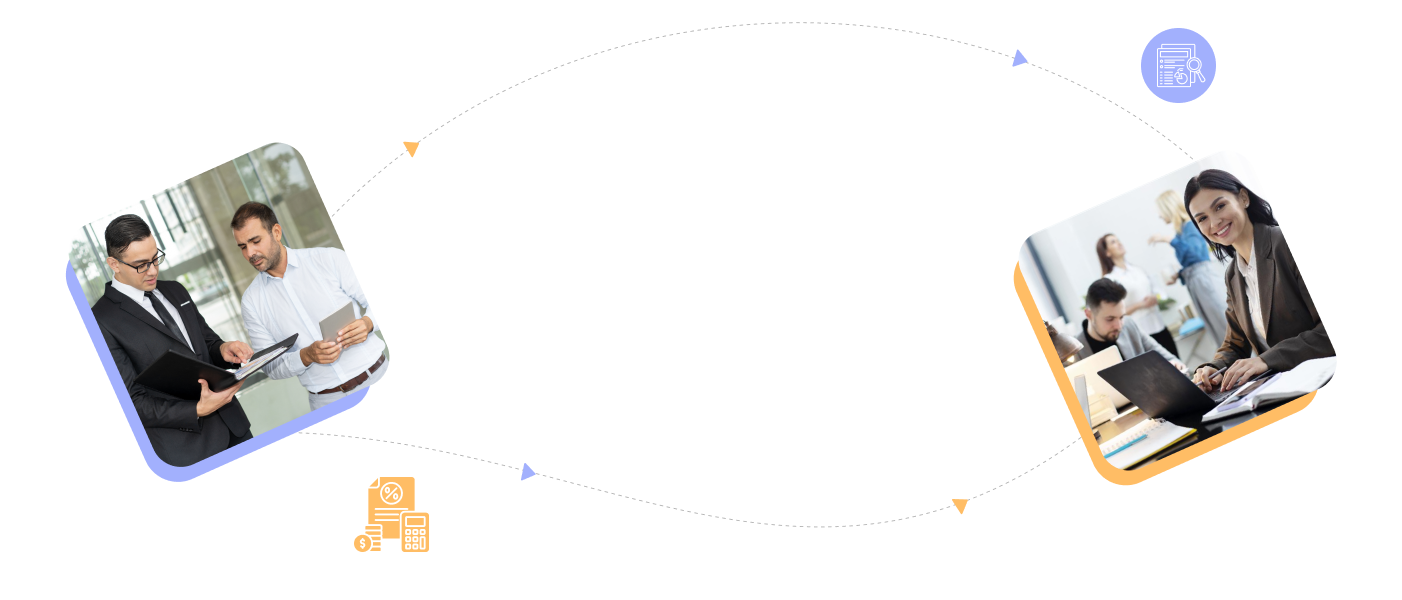
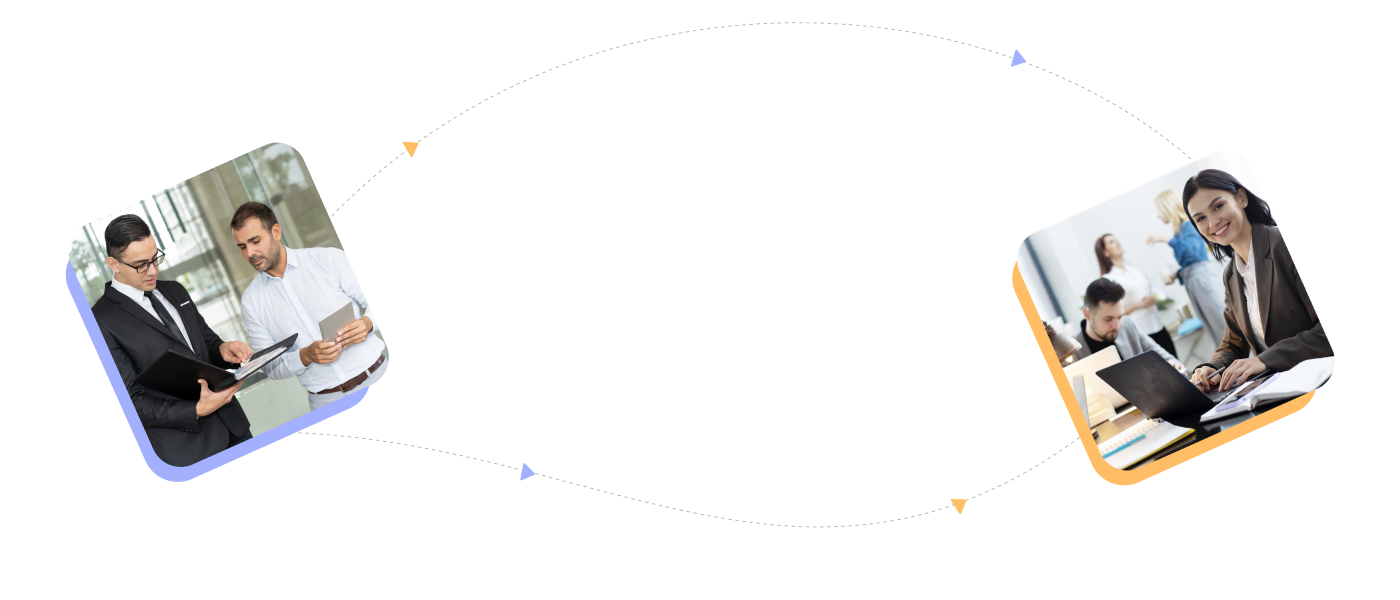
Image change for service section are update

Changed region(s): [[0.7986, 0.03, 0.8907, 0.18], [0.2457, 0.78, 0.3071, 0.93]]

diff --git a/src/pages/Calculators/TDSCalculator.jsx b/src/pages/Calculators/TDSCalculator.jsx
@@ -227,101 +227,107 @@ export default function TDSCalculator() {
   };
 
   return (
-    <div className='container px-4 mb-5' >
-      <div className='row border mt-5 table_background py-4' >
-        <div className='calculator-heading' >
-          TDS Calculator
-        </div>
-        <div className='row mt-3'>
-          <div className='col-md-9 '>
-            <div className='d-flex align-items-center'>
-              <label>Section</label>
-              <select className='form-select mx-4 form-control' style={{ width: "60%" }} onChange={(e) => setSection(e.target.value)}>
-                <option>Select</option>
-                <option value="192A">Section 192A - Payment of accumulated PF balance to an employee</option>
-                <option value="193">Section 193 - Interest on Securities</option>
-                <option value="194">Section 194 - Dividend other than the Dividend as referred to in Section 115-O</option>
-                <option value="194A(other bank)">Section 194A - Interest other than Banks</option>
-                <option value="194A">Section 194A - Interest from Banks</option>
-                <option value="194B">Section 194B - Winnings from Lotteries, crossword Puzzles etc.</option>
-                <option value="194BB">Section 194BB - Income by way of Winnings from Horse Races</option>
-                <option value="194C(single payment)">Section 194C - Payment to Contractor/Sub-Contractor (In case of single payment)</option>
-                <option value="194C">Section 194C - Payment to Contractor/Sub-Contractor (In case of during F.Y)</option>
-                <option value="194D">Section 194D - TDS on insurance commission</option>
-                <option value="194DA">Section 194DA - TDS on Payment in Respect of Life Insurance Policy</option>
-                <option value="194H">Section 194H - Commission or Brokerage</option>
-                <option value="194I(a)">Section 194I(a) - Rent on Plant & Machinery</option>
-                <option value="194I(b)">Section 194I(b) - Rent on Land & building or Furniture & Fitting</option>
-                <option value="194IA">Section 194IA - Payment on transfer of certain Immovable Property other than agricultural Land</option>
-                <option value="194IB">Section 194IB - Rent Payment to Landlord by Individuals</option>
-                <option value="194J(all cases)">Section 194J - Fees for Professional Services/Royalty etc. (Normally in all cases)</option>
-                <option value="194J">Section 194J - Fees for technical services, Fees to Call centre operator</option>
-                <option value="194K">Section 194K - TDS on income from mutual fund units (Dividend income)</option>
-                <option value="194O">Section 194O - TDS on Payment by E-commerce Operator to E-commerce participant.</option>
-              </select>
+    <div className='container  mb-5' >
+      <div style={{ display: 'flex', flexDirection: 'column', alignItems: 'center' }}>
+        <div className='row border mt-5 table_background py-4 col-md-8' >
+          <div className='calculator-heading' >
+            TDS Calculator
+          </div>
+          <div className='row mt-3'>
+            <div className='col-md-6 col-sm-12 mb-3'>
+              <div className='d-flex flex-column align-items-left'>
+                <label>Section</label>
+                <select className='form-select  form-control' onChange={(e) => setSection(e.target.value)}>
+                  <option>Select</option>
+                  <option value="192A">Section 192A - Payment of accumulated PF balance to an employee</option>
+                  <option value="193">Section 193 - Interest on Securities</option>
+                  <option value="194">Section 194 - Dividend other than the Dividend as referred to in Section 115-O</option>
+                  <option value="194A(other bank)">Section 194A - Interest other than Banks</option>
+                  <option value="194A">Section 194A - Interest from Banks</option>
+                  <option value="194B">Section 194B - Winnings from Lotteries, crossword Puzzles etc.</option>
+                  <option value="194BB">Section 194BB - Income by way of Winnings from Horse Races</option>
+                  <option value="194C(single payment)">Section 194C - Payment to Contractor/Sub-Contractor (In case of single payment)</option>
+                  <option value="194C">Section 194C - Payment to Contractor/Sub-Contractor (In case of during F.Y)</option>
+                  <option value="194D">Section 194D - TDS on insurance commission</option>
+                  <option value="194DA">Section 194DA - TDS on Payment in Respect of Life Insurance Policy</option>
+                  <option value="194H">Section 194H - Commission or Brokerage</option>
+                  <option value="194I(a)">Section 194I(a) - Rent on Plant & Machinery</option>
+                  <option value="194I(b)">Section 194I(b) - Rent on Land & building or Furniture & Fitting</option>
+                  <option value="194IA">Section 194IA - Payment on transfer of certain Immovable Property other than agricultural Land</option>
+                  <option value="194IB">Section 194IB - Rent Payment to Landlord by Individuals</option>
+                  <option value="194J(all cases)">Section 194J - Fees for Professional Services/Royalty etc. (Normally in all cases)</option>
+                  <option value="194J">Section 194J - Fees for technical services, Fees to Call centre operator</option>
+                  <option value="194K">Section 194K - TDS on income from mutual fund units (Dividend income)</option>
+                  <option value="194O">Section 194O - TDS on Payment by E-commerce Operator to E-commerce participant.</option>
+                </select>
+              </div>
+            </div>
+
+            <div className='col-md-6 col-sm-12 mb-3'>
+              <div className='d-flex flex-column align-items-left'>
+                <label >PAN quoted by deductee</label>
+                <select className='form-select' style={{ display: 'inline-block', width: 'auto' }} onChange={(e) => setPanQuote(e.target.value === "true")}>
+                  <option value="true" >Yes</option>
+                  <option value="false" >No</option>
+                </select>
+              </div>
+            </div>
+            <div className='col-md-6 col-sm-12 mb-3'>
+              <div className='d-flex flex-column align-items-left gap-2 '>
+                <label>Recipient Type:</label>
+                <div className='gap-2 d-flex flex-nowrap'>
+                  <input
+                    type="radio"
+                    id="individualHUFSOLEPROP"
+                    name="recipientType"
+                    value="individualHUFSOLEPROP"
+                    className="form-check-input"
+                    checked={recipientType === "individualHUFSOLEPROP"}
+                    onChange={(e) => setRecipientType(e.target.value)}
+                  />
+                  <label htmlFor="individualHUFSOLEPROP"> Individual/HUF/Sole Proprietor</label>
+                </div>
+                <div className='gap-2 d-flex flex-nowrap'>
+                  <input
+                    type="radio"
+                    id="other"
+                    name="recipientType"
+                    value="other"
+                    className="form-check-input"
+                    checked={recipientType === "other"}
+                    onChange={(e) => setRecipientType(e.target.value)}
+                  />
+                  <label htmlFor="other"> Other</label>
+                </div>
+              </div>
+            </div>
+
+            <div className='col-md-6 col-sm-12 mb-3'>
+              <div className='d-flex flex-column align-items-left'>
+                <label className='me-2'>Rate: {`${rate}%`} </label>
+                <input type='range' min='0' max='100' value={rate} onChange={(e) => setRate(parseInt(e.target.value, 10))} className='form-range ' />
+
+              </div>
+            </div>
+
+
+            <div className='col-md-6 col-sm-12 mb-3'>
+              <div className='d-flex flex-column align-items-left'>
+                <label className='me-2'>Amount: {`${amount}`}</label>
+                <input type='range' min='0' max='100000' value={amount} onChange={(e) => setAmount(parseInt(e.target.value, 10))} className='form-range ' />
+              </div>
+            </div>
+
+            <div className='col-md-6 col-sm-12 mb-3' >
+              <div className=' d-flex flex-column align-items-left'>
+                <label className='me-2'>Tax:  {`${TDS}`}</label>
+              </div>
+              {!pan ? <span>In case Pan is not available TDS will be applicable at higher rates</span> : ""}
             </div>
           </div>
+
+
         </div>
-        <div className='row my-3'>
-          <div className='col-md-9'>
-            <label className='me-2' style={{ display: 'inline-block' }}>PAN quoted by deductee</label>
-            <select className='form-select' style={{ display: 'inline-block', width: 'auto' }} onChange={(e) => setPanQuote(e.target.value === "true")}>
-              <option value="true" >Yes</option>
-              <option value="false" >No</option>
-            </select>
-          </div>
-        </div>
-        <div className='d-flex align-items-center gap-2 flex-wrap'>
-          <label>Recipient Type:</label>
-          <div className='gap-2 d-flex flex-nowrap'>
-            <input
-              type="radio"
-              id="individualHUFSOLEPROP"
-              name="recipientType"
-              value="individualHUFSOLEPROP"
-              className="form-check-input"
-              checked={recipientType === "individualHUFSOLEPROP"}
-              onChange={(e) => setRecipientType(e.target.value)}
-            />
-            <label htmlFor="individualHUFSOLEPROP"> Individual/HUF/Sole Proprietor</label>
-          </div>
-          <div className='gap-2 d-flex flex-nowrap'>
-            <input
-              type="radio"
-              id="other"
-              name="recipientType"
-              value="other"
-              className="form-check-input"
-              checked={recipientType === "other"}
-              onChange={(e) => setRecipientType(e.target.value)}
-            />
-            <label htmlFor="other"> Other</label>
-          </div>
-        </div>
-        <div className='row mt-3'>
-          <div className='col-md-9 d-flex align-items-center'>
-            <label className='me-2'>Rate</label>
-            <input type='text' value={`${rate}%`} readOnly className='form-control mx-2' />
-            <input type='range' min='0' max='100' value={rate} onChange={(e) => setRate(parseInt(e.target.value, 10))} className='form-range mx-2' style={{ color: "black" }} />
-          </div>
-        </div>
-        <div className='row mt-3'>
-          <div className='col-md-9 d-flex align-items-center'>
-            <label className='me-2'>Amount</label>
-            <input type='text' value={amount} onChange={(e) => setAmount(parseInt(e.target.value, 10))} className='form-control mx-2' />
-            <input type='range' min='0' max='100000' value={amount} onChange={(e) => setAmount(parseInt(e.target.value, 10))} className='form-range mx-2' />
-          </div>
-        </div>
-       
-        {/* Display TDS */}
-        <div className='row mt-3' style={{ padding: '10px' }}>
-          <div className='col-md-9 d-flex align-items-center'>
-            <label className='me-2'>Tax</label>
-            <input type='text' value={`${TDS}`} className='form-control mx-2' readOnly  />
-          </div>
-          {!pan ? <span>In case Pan is not available TDS will be applicable at higher rates</span> : ""}
-        </div>
-        
       </div>
     </div>
   );

diff --git a/src/pages/Home.jsx b/src/pages/Home.jsx
@@ -3,12 +3,12 @@ import Content from "./Content";
 import { Employee } from "./AboutUs/AboutUs_OurTeam";
 import { FaArrowRight } from "react-icons/fa6";
 import { Link } from "react-router-dom";
-import audit from "../images/Audit&Assurance.svg";
-import bookkeeper from "../images/Bookkeeping.png";
-import Advisory from "../images/Advisory.png";
-import indirect from "../images/IndirectTax.png";
+import audit from "../images/Audit&Assurance1.png";
+import bookkeeper from "../images/Bookkeeping1.jpg";
+import Advisory from "../images/Advisory1.png";
+import indirect from "../images/IndirectTax1.png";
 import Secretarial from "../images/Secretarial1.png";
-import DirectTax from "../images/DirectTax2.png";
+import DirectTax from "../images/DirectTax1.png";
 import { CiCircleCheck } from "react-icons/ci";
 // import { PiCloudSlash } from "react-icons/pi";
 import Herosection from "../images/Home-heroSection.png"
@@ -302,12 +302,12 @@ const Home = () => {
           </div>
           <div >
             <p style={{ textAlign: "justify" }}>
-              At CHITHIRAIPANDIAN AND CO, We believe in building long-term relationships based on Trust, Integrity, and Professionalism. Our mission is to deliver Proactive, Practical, and Results-driven Financial Solutions that help our clients thrive in a Dynamic marketplace.</p>
+              At <b>Chithiraipandian and Co</b>, we believe in building long-term relationships based on trust, integrity, and professionalism. Our mission is to deliver proactive, practical, and results-driven financial solutions that help our clients thrive in a dynamic marketplace.</p>
             <p style={{ textAlign: "justify" }}>
-              At CHITHIRAIPANDIAN AND CO, We are dedicated to empowering businesses and individuals with expert financial and advisory services. With a legacy of more than two decades of experience, we specialize in providing Direct and Indirect Taxation, Business Taxation, International Taxation, Auditing and Assurance service, Company Formation, Corporate Compliances, Due diligence, Transfer Pricing, Virtual CFO Solutions,  and Financial Consulting Solutions that are tailored to meet the specific needs of our clients.
+              At <b>Chithiraipandian and Co</b>, we are dedicated to empowering businesses and individuals with expert financial and advisory services. With a legacy of more than two decades of experience, we specialize in providing direct and indirect taxation, business taxation, international taxation, auditing and assurance services, company formation, corporate compliances, due diligence, transfer pricing, virtual CFO solutions, and financial consulting solutions that are tailored to meet the specific needs of our clients.
             </p>
             <div style={{ textAlign: "justify" }}>
-              Our team of experienced Chartered Accountants and Financial Advisors is committed to delivering quality service and valuable insights. We work closely with businesses of all sizes, from startups and SMEs to large corporations. Under the leadership of our founder, We’ve transitioned to a technology-driven firm, Consistently expanding our service offerings and fostering long-term client relationships
+              Our team of experienced Chartered Accountants and financial advisors is committed to delivering quality service and valuable insights. We work closely with businesses of all sizes, from startups and SMEs to large corporations. Under the leadership of our founder, we’ve transitioned to a technology-driven firm, consistently expanding our service offerings and fostering long-term client relationships.
             </div>
           </div>
         </div>

diff --git a/src/pages/Services/ServiceData.js b/src/pages/Services/ServiceData.js
@@ -1,8 +1,8 @@
 
-import Service from "../../images/service.jpg";
+// import Service from "../../images/service.jpg";
 import Audit_And_Assurenece from "../../images/Audit_And_Assurenece.jpg";
-import Direct_Tax from "../../images/Direct_Tax.jpg";
-import Indirect_Tax from "../../images/Indirect_Tax.jpg";
+// import Direct_Tax from "../../images/Direct_Tax.jpg";
+// import Indirect_Tax from "../../images/Indirect_Tax.jpg";
 import Advisory from "../../images/Advisory.jpg";
 // import Secretarial from "../../images/Secretarial.jpg";
 import Bookkeeping from "../../images/Bookkeeping.jpg";
@@ -12,7 +12,7 @@ import Bookkeeping from "../../images/Bookkeeping.jpg";
 const servicesData = [
   {
     title: "Audit & Assurance Services",
-    imageSrc: Service,
+    // imageSrc: Service,
     servicesKey: "auditAndAssuranceServices",
     subImage:Audit_And_Assurenece,
     services: [
@@ -28,9 +28,9 @@ const servicesData = [
   },
   {
     title: "Direct Tax Services",
-    imageSrc: Service,
+    // imageSrc: Service,
     servicesKey: "directTaxServices",
-    subImage:Direct_Tax,
+    // subImage:Direct_Tax,
     subServices: {
       Domestic: [
         "Filling of Income Tax Returns of Corporate and Non-Corporate Clients",
@@ -49,9 +49,9 @@ const servicesData = [
   },
   {
     title: "Indirect Tax Services",
-    imageSrc: Service,
+    // imageSrc: Service,
     servicesKey: "indirectTaxServices",
-    subImage:Indirect_Tax,
+    // subImage:Indirect_Tax,
     subServices: {GST:[
       "Filling of Monthly, Quarterly and Annual Returns under GST",
       "GST Compliances",
@@ -61,7 +61,7 @@ const servicesData = [
   },
   {
     title: "Advisory Services",
-    imageSrc: Service,
+    // imageSrc: Service,
     servicesKey: "advisoryServices",
     subImage:Advisory,
     services: [
@@ -85,7 +85,7 @@ const servicesData = [
   },
   {
     title: "Secretarial",
-    imageSrc: Service,
+    // imageSrc: Service,
     servicesKey: "secretarial",
     // subImage:Secretarial,
     services: [
@@ -106,7 +106,7 @@ const servicesData = [
   },
   {
     title: "Bookkeeping Services",
-    imageSrc: Service,
+    // imageSrc: Service,
     servicesKey: "bookkeepingServices",
     subImage:Bookkeeping,
     description:"We are providing outsourcing services for domestic as international clients, which includes:",

diff --git a/src/App.css b/src/App.css
@@ -19,7 +19,8 @@ h6 {
   --primary-blue: #083D5F;
   --primary-text: #141414;
   --background-color: #ffffff;
-  --card-color: #8DA3FF;
+  /* --card-color: #8DA3FF; */
+  --card-color: #375C69;
 
 }
 
@@ -522,7 +523,7 @@ h6 {
 
 /* calculator table */
 .table_background {
-  background: #adbcf8 !important;
+  background: #EDE8C1 !important;
   box-shadow: 0 4px 8px rgba(0, 0, 0, 0.1);
   border-radius: 20px;
 }
@@ -531,7 +532,7 @@ h6 {
   font-family: "EB Garamond", serif;
   font-size: 24px;
   text-align: center;
-  color: white;
+  color: black;
   margin-bottom: 3px;
 
 }
@@ -588,7 +589,7 @@ h6 {
 .calculator-reset {
   border-radius: 50px;
   border: 2px solid transparent;
-  background-color: rgba(255, 255, 255, 0.514);
+  background-color: rgba(138, 136, 136, 0.514);
   box-shadow: 1px 2px 5px rgba(255, 255, 255, 0.479);
   outline: none;
   padding: 5px 15px;
@@ -652,9 +653,8 @@ h6 {
 .serviceCard-button {
   border: none;
   padding: 5px 20px;
-  border-radius: 5px 20px;
-  background: linear-gradient(to right, rgb(47, 50, 248) 25%, rgba(139, 168, 221, 0.751) 75%);
-  background-size: 100% 99%;
+  border-radius: 5px;
+  background: rgb(47, 50, 248);
   background-position: right bottom;
   color: var(--white-color);
   cursor: pointer;

diff --git a/src/pages/Services/ServicePage.jsx b/src/pages/Services/ServicePage.jsx
@@ -1,12 +1,12 @@
 import React from 'react';
 // import Service from "../../images/service.jpg";
 // import { CiCircleCheck } from "react-icons/io5";
-import Audit from "../../images/Audit&Assurance.svg";
-import Bookkeeper from "../../images/Bookkeeping.png";
-import Advisory from "../../images/Advisory.png";
-import Indirect from "../../images/IndirectTax.png";
+import Audit from "../../images/Audit&Assurance1.png";
+import Bookkeeper from "../../images/Bookkeeping1.jpg";
+import Advisory from "../../images/Advisory1.png";
+import Indirect from "../../images/IndirectTax1.png";
 import Secretarial from "../../images/Secretarial1.png";
-import DirectTax from "../../images/DirectTax2.png";
+import DirectTax from "../../images/DirectTax1.png";
 
 
 

diff --git a/src/Components/Header.jsx b/src/Components/Header.jsx
@@ -2,7 +2,7 @@ import React from "react";
 import { NavLink } from "react-router-dom";
 import { Container, Nav, Navbar, NavDropdown } from "react-bootstrap";
 import logo from "../images/CA1.png";
-import servicesData from '../pages/Services/ServiceData';
+
 import "../App.css";
 
 function NavBar() {
